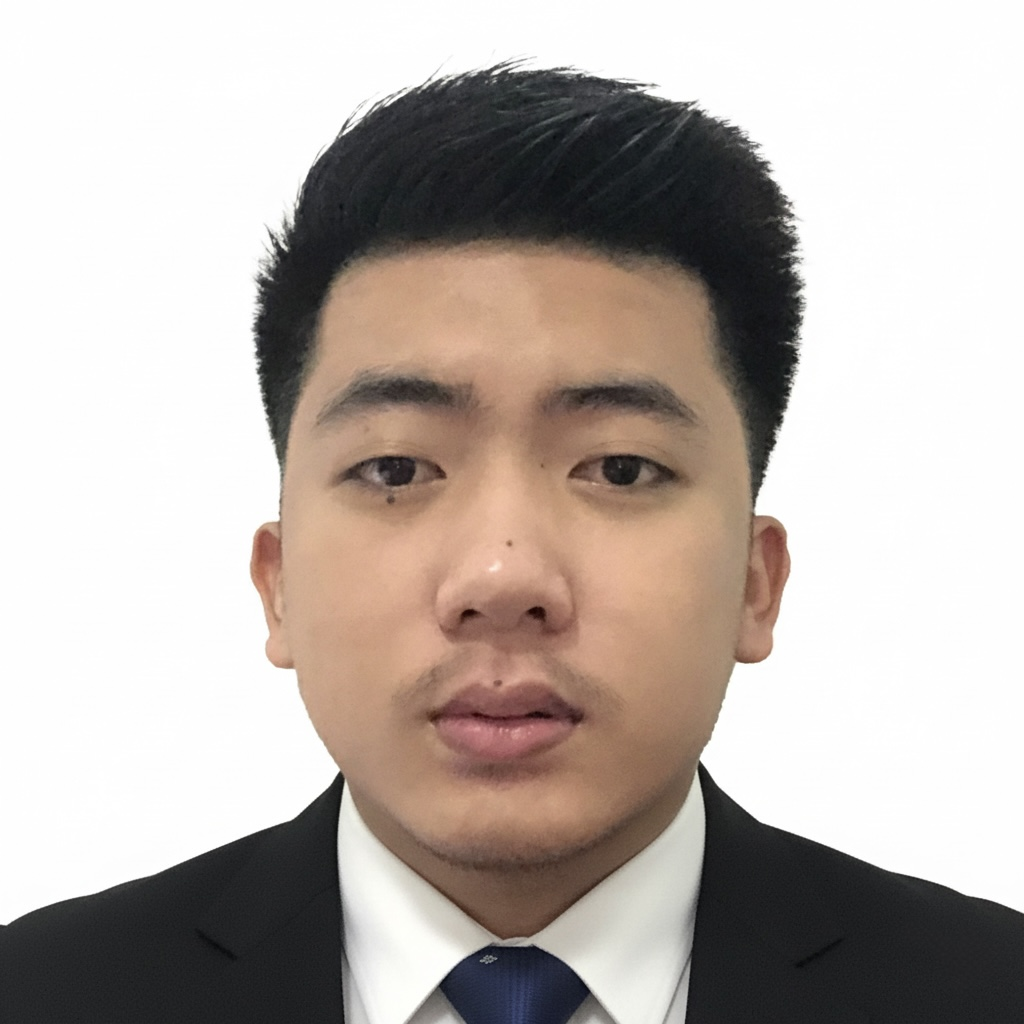
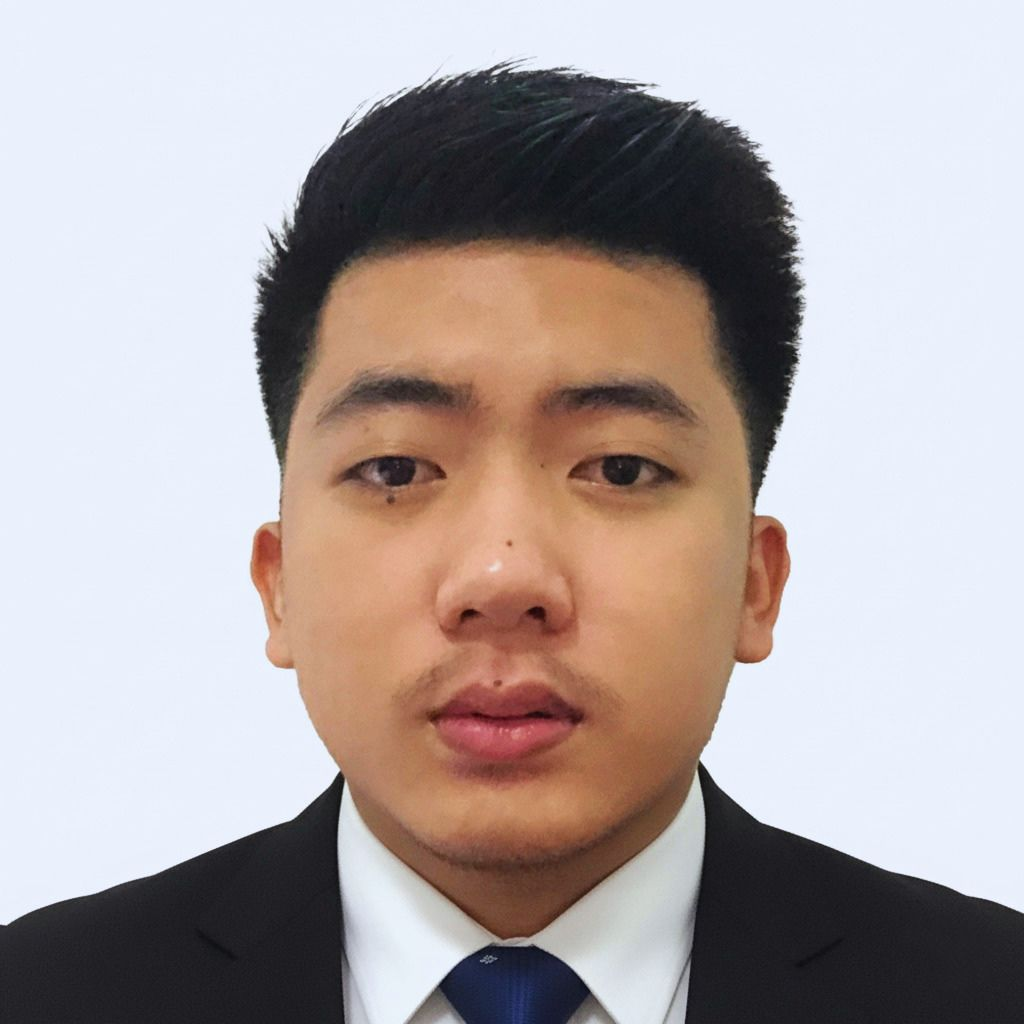
Initial fix

diff --git a/index.html b/index.html
@@ -60,12 +60,15 @@
                         <p><i class="fa-solid fa-phone"></i> 0976-345-1932</p>
                     </div>
                     <div class="hero-actions">
-                        <a href="https://linkedin.com" target="_blank" class="btn btn-outline"><i class="fa-brands fa-linkedin"></i> LinkedIn</a>
-                        <a href="https://github.com" target="_blank" class="btn btn-outline"><i class="fa-brands fa-github"></i> GitHub</a>
+                        <a href="https://www.linkedin.com/in/rikkibaservalbert/" target="_blank" class="btn btn-outline"><i class="fa-brands fa-linkedin"></i> LinkedIn</a>
+                        <a href="https://github.com/rikkibaservalbert" target="_blank" class="btn btn-outline"><i class="fa-brands fa-github"></i> GitHub</a>
                         <a href="#hero" class="btn btn-outline"><i class="fa-solid fa-globe"></i> Portfolio</a>
                         <a href="mailto:rikkibaservalbert@gmail.com" class="btn btn-primary"><i class="fa-solid fa-paper-plane"></i> Email Me</a>
-                        <a href="files/Resume-RikkiValbert.pdf"download="Resume-RikkiValbert.pdf"class="btn btn-primary"><i class="fa-solid fa-download"></i> Download Resume
-    </a>
+                        <a href="files/Resume-RikkiValbert.pdf" download="Resume-RikkiValbert.pdf" class="btn btn-primary"><i class="fa-solid fa-download"></i> Download Resume</a>
+                    </div>
+                </div>
+            </div>
+        </section>
                     </div>
                 </div>
             </div>
@@ -361,8 +364,8 @@
                     
                     <div class="contact-buttons">
                         <a href="mailto:rikkibaservalbert@gmail.com" class="btn btn-primary"><i class="fa-solid fa-envelope"></i> Send Email</a>
-                        <a href="https://linkedin.com" target="_blank" class="btn btn-outline"><i class="fa-brands fa-linkedin"></i> LinkedIn</a>
-                        <a href="https://github.com" target="_blank" class="btn btn-outline"><i class="fa-brands fa-github"></i> GitHub</a>
+                        <a href="https://www.linkedin.com/in/rikkibaservalbert/" target="_blank" class="btn btn-outline"><i class="fa-brands fa-linkedin"></i> LinkedIn</a>
+                        <a href="https://github.com/rikkibaservalbert" target="_blank" class="btn btn-outline"><i class="fa-brands fa-github"></i> GitHub</a>
                     </div>
                 </div>
             </div>

diff --git a/style.css b/style.css
@@ -189,6 +189,7 @@ body {
     align-items: center;
     gap: 2.5rem;
 }
+
 .profile-img-container {
     display: flex;
     justify-content: center;
